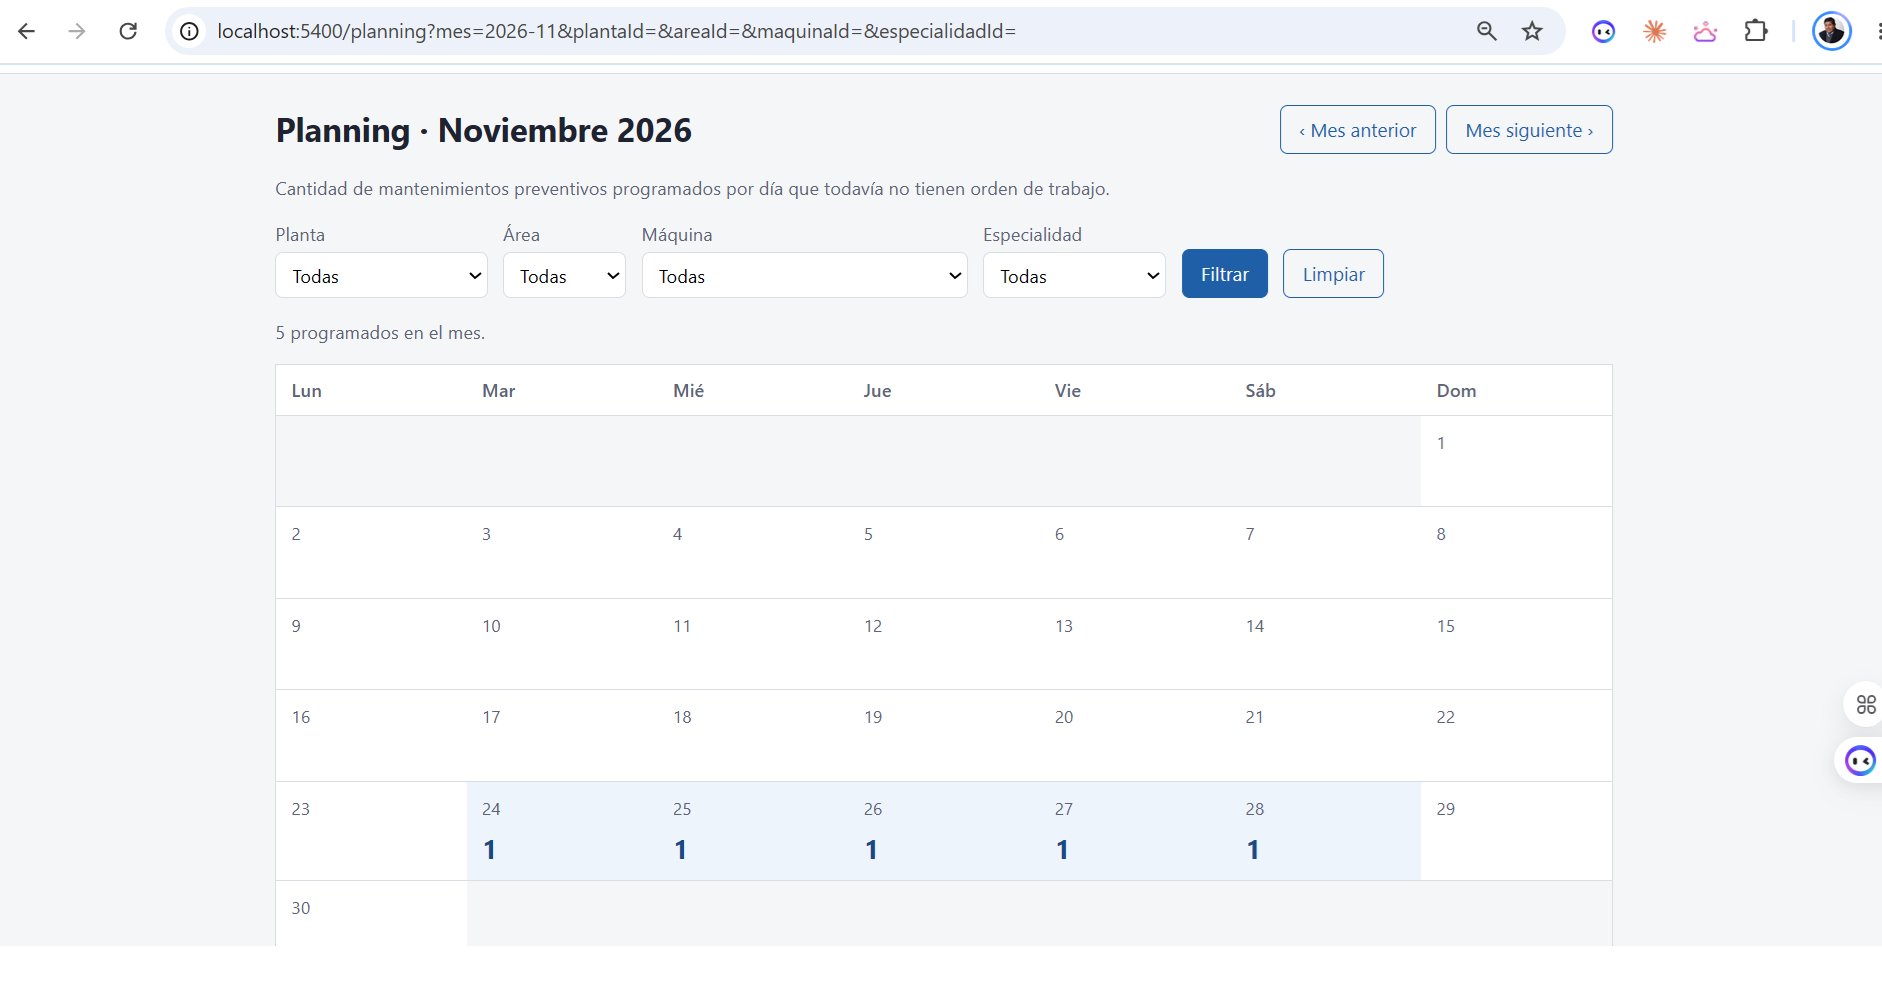
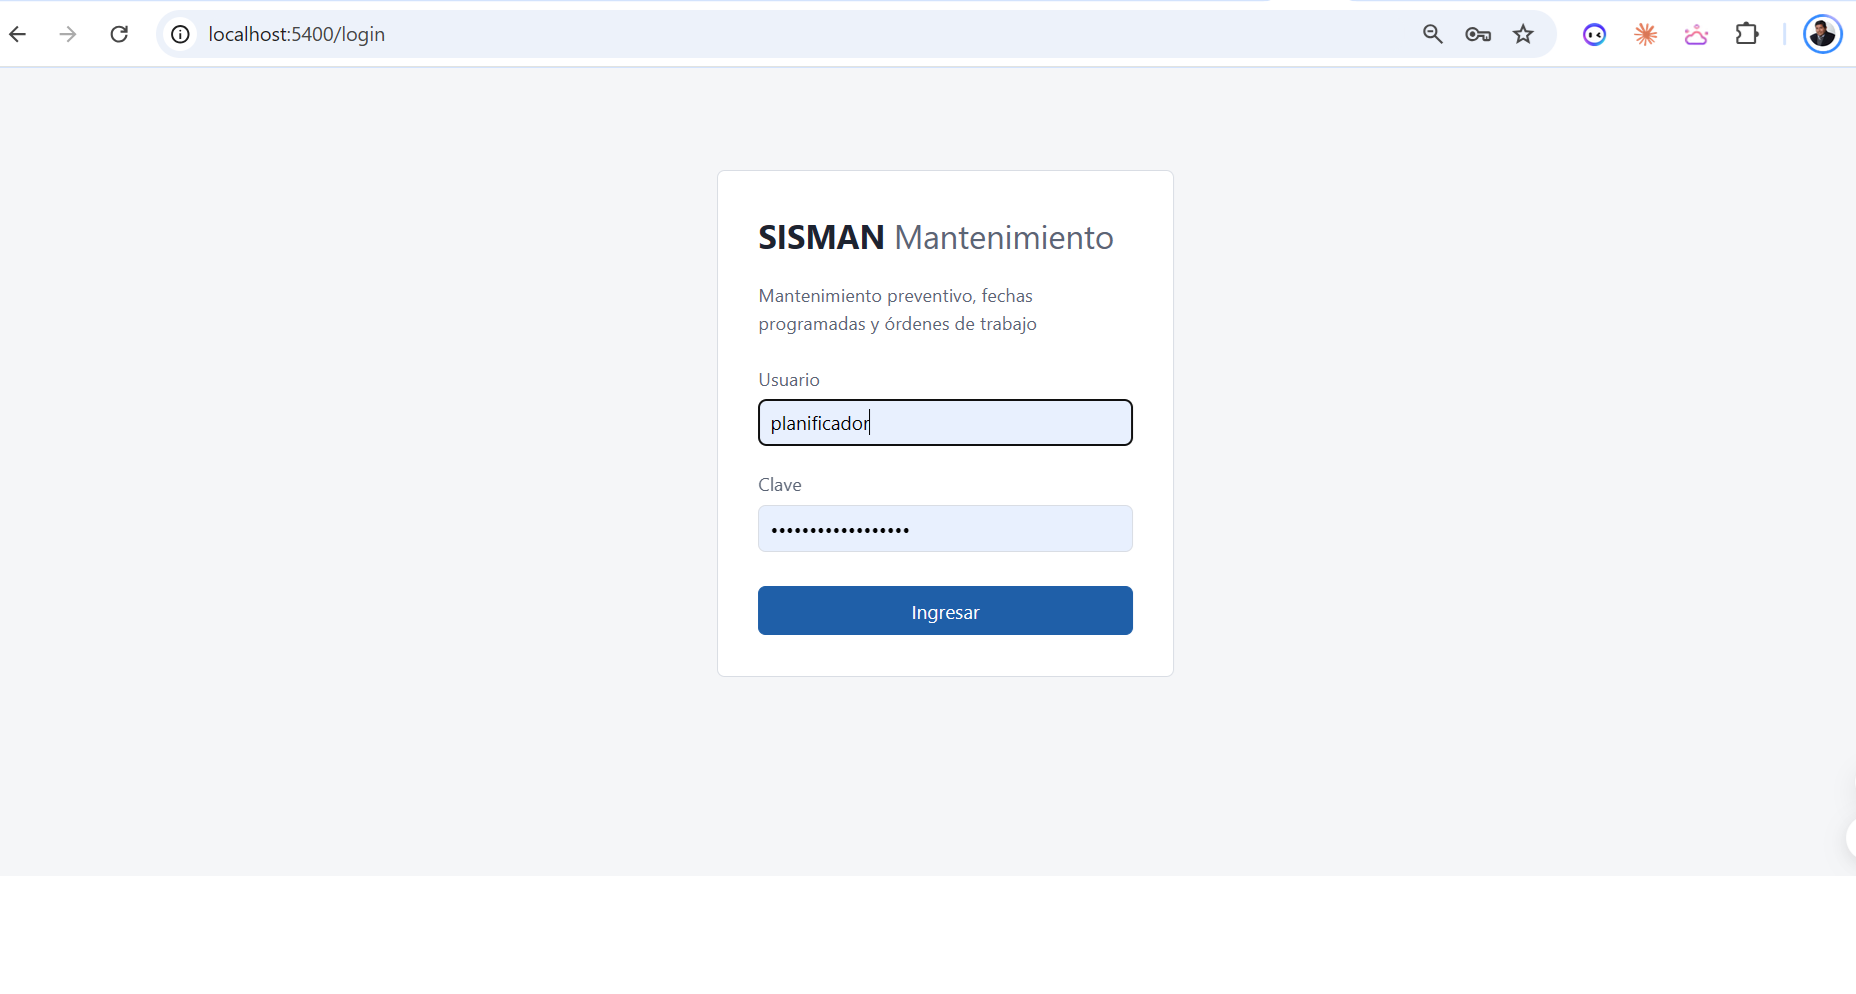
docs(ia): captura 09 del mensaje del instructor y captura 03 reemplazada
El responsable reviso la captura 09 y quito los datos personales.

diff --git a/docs/ia/resumen.md b/docs/ia/resumen.md
@@ -38,4 +38,4 @@ Análisis de un sistema grande en poco tiempo, comparación automática de respu
 3. Las decisiones destructivas (reescribir el historial) se piden, no se toman (004).
 4. Añadir archivos por nombre, no por carpeta (006).
 
-*Capturas en `capturas/` (2026-10-27): 01 pruebas (121 en verde), 02 Swagger, 03 y 06 planning, 04 lista de MP del planificador, 05 validación al editar, 07 sesión del especialista y 08 árbol sin Docker. Pendiente: captura del mensaje del instructor del 24/10 (evidencia 016) y entradas por cada tarea de construcción.*
+*Capturas en `capturas/` (2026-10-27): 01 pruebas (121 en verde), 02 Swagger, 03 y 06 planning, 04 lista de MP del planificador, 05 validación al editar, 07 sesión del especialista y 08 árbol sin Docker. 2026-10-28: 09 mensaje del instructor con el índice sugerido para la presentación y 03 reemplazada. Pendiente: entradas por cada tarea de construcción.*
